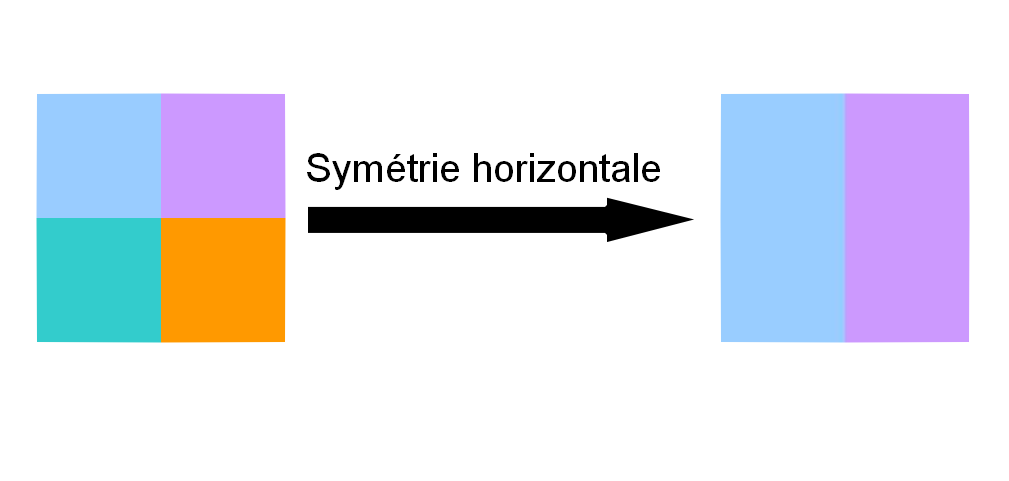
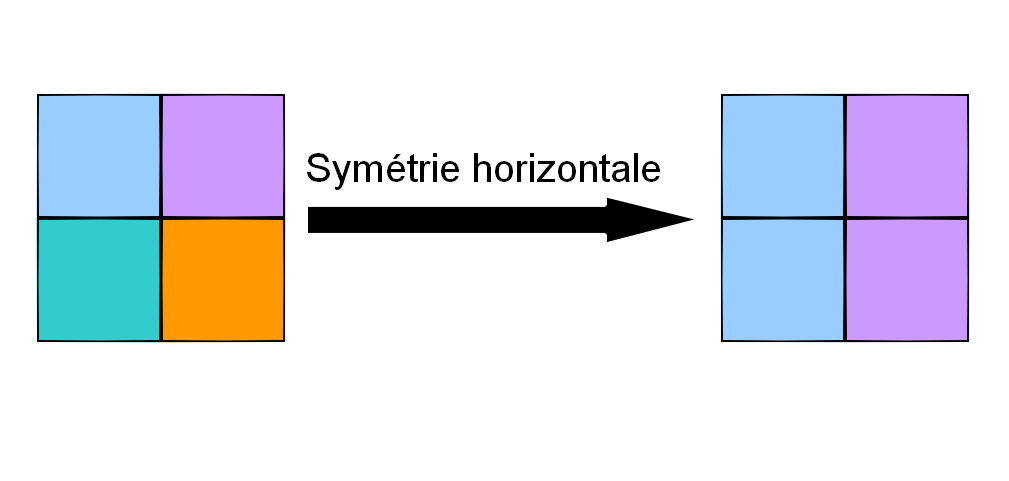
Changed diff() explanation. Changed symmetry explanation images. Added new explanations for pixels and RGB.

Changed region(s): [[0.7066, 0.1871, 0.9832, 0.7173], [0.0307, 0.1871, 0.2765, 0.7173]]

diff --git a/07_images/07_images.md b/07_images/07_images.md
@@ -4,7 +4,7 @@ date: 2021
 author: Clarisse Blanco / Gaëtan Mouisset
 ---
 ## Introduction aux images matricielles
-Une image matricielle est une image représentée sous forme de matrice de points de couleurs (pixels). 
+Une image matricielle est une image représentée sous forme de matrice de petits carrés de couleurs (pixels). 
 
 
 
@@ -13,7 +13,19 @@ Une image matricielle est une image représentée sous forme de matrice de point
 
 
 Dans ce TP, nous utiliserons la représentation Rouge Vert Bleu (RVB ou RGB en anglais) pour donner une large palette de couleurs aux pixels de nos images. 
-Une couleur est representée sous la forme d'un triplet (R, V, B) où chaque valeur est comprise entre 0 et 255.
+Une couleur est représentée sous la forme d'un triplet (R, G, B) où chaque valeur est comprise entre 0 et 255.
+
+\vspace{6mm}
+
+\begin{center}\includegraphics[width=0.8\linewidth]{figures/palette.png}\end{center}
+
+\vspace{6mm}
+
+Avec la représentation RGB l'abscence de couleur (RGB = (0, 0, 0)) correspond au noir tandis que la totalité des couleurs (RGB = (255, 255, 255)) correspond au blanc.
+
+\begin{center}\includegraphics[width=0.8\linewidth]{figures/noir_blanc.png}\end{center}
+
+
 
 ## Introduction à la bibliothèque PIL (Python Imaging Library)
 
@@ -62,7 +74,7 @@ Matrice = Mon_image.load() # Obtenir la matrice de pixels d'une image. Un pixel 
 Matrice[0, 0] = (255, 255, 255) # Changer la couleur du pixel à la position (0, 0)
 ```
 
-Maintenant, au travail !
+Maintenant que nous avons pu voir comment installer et utiliser la blibliothèque PIL nous pouvons commencer le TP !
 
 
 
@@ -97,18 +109,20 @@ AppliquerFonction(3, FonctionCarre) # Résultat : 9
 AppliquerFonction(3, MaFonction)    # Résultat : 16
 ```
 
-**But : Écrire la fonction ``ApplyFilter(image, filter)`` qui applique le filtre donné en paramètre sur l'image. ``filter`` est une fonction qui prend une couleur et en retourne une nouvelle. Ce filtre sera donc à appliquer sur tous les pixels d'une image. La fonction doit retourner une nouvelle image.**
+**But : Écrire la fonction ``ApplyFilter(image, filter)`` qui applique le filtre donné en paramètre sur l'image. ``filter`` est une fonction qui prend une couleur et en retourne une nouvelle : ``(R2, G2, B2) = filter((R1, G1, B1))`` . Ce filtre sera donc à appliquer sur tous les pixels d'une image. La fonction doit retourner une nouvelle image.**
 
 ### Exercice 2 : Filtre de niveau de gris
 
 Le niveau de gris est défini par la relation suivante :  
 ``Résultat = 0.2126 * Rouge + 0.7152 * Vert + 0.0722 * Bleu``
 
+Pour obtenir du gris il faut que chacune des composantes ait la même valeur.
+
 
 
 **But : Écrire la fonction ``Grayscale(color)`` qui applique un filtre de niveau de gris sur une couleur. La fonction doit retourner la nouvelle couleur.**
 
-Résultat souhaité pour ``ApplyFilter(Grayscale, ref_image).save("Grayscale.jpg")``:
+Résultat souhaité pour ``ApplyFilter(ref_image, Grayscale).save("Grayscale.jpg")``:
 
 \begin{center}\includegraphics[width=0.8\linewidth]{figures/6.jpg}\end{center}
 
@@ -162,7 +176,7 @@ Résultat souhaité :
 
 ### Exercice 7 : Rotation
 
-**But : Écrire la fonction ``RotateN(image, n)`` qui applique N fois une rotation droite (90 degres) sur une image. La fonction doit retourner une nouvelle image.**
+**But : Écrire la fonction ``RotateN(image, n)`` qui applique N fois une rotation droite (90 degrés dans le sens horaire) sur une image. La fonction doit retourner une nouvelle image.**
 
 Résultat souhaité pour n = 2 :
 \begin{center}\includegraphics[width=0.75\linewidth]{figures/11.jpg}\end{center}
@@ -170,31 +184,41 @@ Résultat souhaité pour n = 2 :
 Résultat souhaité pour n = 9 :
 \begin{center}\includegraphics[width=0.35\linewidth]{figures/12.jpg}\end{center}
 
-
+\newpage
 
 ### Exercice 8 : Pourcentage de différence
 
 Démarche pour calculer le pourcentage de différence entre deux images :
 
-**(r1, g1, b1)** sont les valeurs correspondant aux couleurs de la première image.  
-**(r2, g2, b2) **sont les valeurs correspondant aux couleurs de la deuxième image.  
-**diff** est la variable à laquelle on affecte la différence entre les deux images pour chaque composante de chaque pixel.
+- Il faut commencer par calculer la différence (soustraction) entre les composantes RGB des deux pixels de chacune des images. Par exemple pour ces deux pixels:
 
-Pour chaque pixel, on calcule la différence de valeur entre **r1** et **r2** ; **g1** et **g2** ; **b1** et **b2** et on affecte tout cela à la variable **diff** de cette manière :
+  \vspace{3mm}
 
-``diff += abs(r1-r2)``
+  \begin{center}\includegraphics[width=0.8\linewidth]{figures/diff_pixel.png}\end{center}
 
-La fonction `abs()` permet d'obtenir la valeur absolue.
+  \vspace{3mm}
 
-Faire la valeur absolue de ``r1 - r2`` permet d'avoir un résultat positif peu importe si **r1 > r2** ou **r1 < r2**.
+  Vous pouvez remarquer nous rencontrons un problème lors du calcul de la différence entre les secondes composantes des deux pixels. En effet, comme 20 est plus petit que 80 le résultat est négatif, or nous voudrions que le résultat soit positif (comme si nous avions fait 80 - 20). Pour cela vous pouvez utiliser la fonction abs() qui permet d'obtenir la valeur absolue (résultat positif) d'un calcul.
+  
+  *Par exemple : abs(5 - 8) = abs(-3) = 3 et abs(8 - 5) = abs(3) = 3*.
+  
+  \vspace{3mm}
+  
+- Ensuite, il faut ajouter la différence que nous venons de calculer dans une variable, pour faire la somme des différences de chaque composante : ``diff_r``, ``diff_g``, ``diff_b``.
 
-*Par exemple : abs(5 - 8) = abs(-3) = 3 et abs(8 - 5) = abs(3) = 3*.
+  \vspace{3mm}
 
-Une fois que les images ont été entièrement parcourues, il ne reste plus qu'à calculer le pourcentage. Pour cela, nous avons besoin du nombre de composantes R, G, B dans une des images et de la valeur par rapport à laquelle chaque composante est exprimée (255).
+- Une fois que les images ont été entièrement parcourues, il ne reste plus qu'à calculer le pourcentage. Pour cela, nous avons besoin du nombre de pixels présents dans l'image, du nombre de composantes R, G, B dans une des images et de la valeur par rapport à laquelle chaque composante est exprimée (255).
 
-**Ceci donne la formule :** 
+  \vspace{3mm}
 
-$$pourcentage = 100 \times \frac{diff}{width \times height \times 3 \times 255}$$
+  **Ceci donne la formule :** 
+
+  $$pourcentage = 100 \times \frac{diff}{width \times height \times 3 \times 255}$$
+
+  Où ``diff`` =``diff_r``+ ``diff_g``+ ``diff_b``.
+
+\vspace{8mm}
 
 **But : Écrire la fonction ``Diff(image1, image2)`` qui calcule le pourcentage de différence entre deux images de même dimensions. La fonction doit retourner un entier.**
 
@@ -210,7 +234,7 @@ Exemple : Pour ``Diff(ref_image, noisycat)``, avec ``ref_image`` étant l'image 
 
 **Voisinage d'un pixel :**
 
-Le voisinage d'un pixel est le nom que l'on donne à tous les pixels voisins d'un autre pixel. 
+Le voisinage d'un pixel est le nom que l'on donne à tous les pixels voisins. 
 
 Sur l'image ci-dessous les pixels ont été remplacés par des maisons, la maison jaune a un voisinage de 3x3 maisons. Ce qui fait au total 8 voisins (maisons rouges).
 
@@ -230,7 +254,8 @@ La valeur médiane ici sera de 14 car si l'on trie chaque valeur par ordre crois
 
 \begin{center}\includegraphics[width=0.8\linewidth]{figures/21.png}\end{center}
 
-Rappel : La médiane est la la valeur qui sépare une distribution ordonnée en deux groupes de taille égale. Donc pour la retrouver dans notre cas, on trie en ordre croissant les valeurs des pixels intéressants et la médiane correspondra à la valeur au milieu de cette liste (à la position : nombre total d'éléments / 2)  
+Rappel : La médiane est la valeur qui sépare une distribution ordonnée en deux groupes de taille égale. Donc pour la retrouver dans notre cas, on trie en ordre croissant les valeurs des pixels intéressants et la médiane correspondra à la valeur au milieu de cette liste (à la position : nombre total d'éléments / 2).
+
 Nous remplaçons donc **250** par **14**.
 
 \begin{center}\includegraphics[width=0.8\linewidth]{figures/17.png}\end{center}
